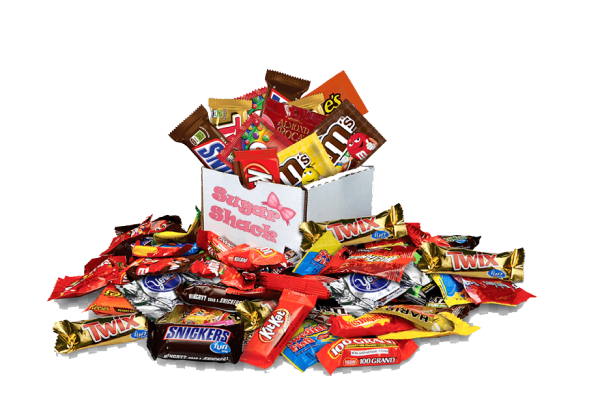
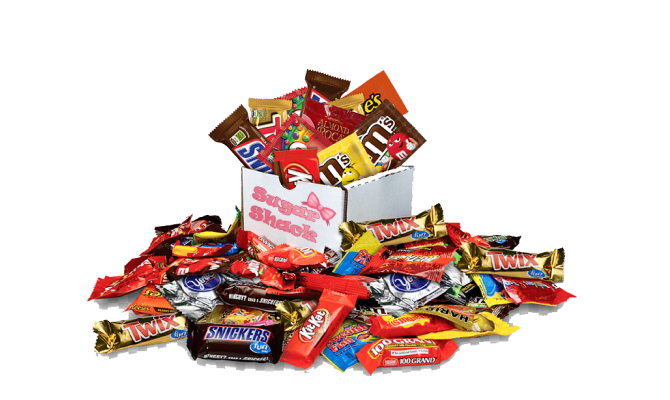
lap

Changed region(s): [[0.06, 0.15, 0.9, 0.96]]

diff --git a/style/phone-style.css b/style/phone-style.css
@@ -121,6 +121,20 @@ body {
     color: white;
 }
 
+@media (min-width: 641px) and (max-width: 1025px) {
+    .menu-left-button {
+        font-size: 2.5vw;
+    }
+    
+    .menu-right-button {
+        font-size: 2.5vw;
+    }
+    
+    .menu-button {
+        font-size: 2.5vw;
+    }
+}
+
 .menu-button:hover {
     background-color: #FFE8EC;
     color: black;
@@ -182,6 +196,12 @@ body {
     line-height: 1.4;
 }
 
+@media (min-width: 641px) and (max-width: 1025px) {
+    .footer-left {
+        font-size: 1.9vw;
+    }
+}
+
 .footer-right {
     display: flex;
     align-items: center;
@@ -191,7 +211,6 @@ body {
 
 .candy-spot {
     width: 100%;
-    height: 22%;
     display: flex;
     align-items: center;
     justify-content: center;
@@ -317,6 +336,12 @@ body {
     line-height: 1.1;
 }
 
+@media (min-width: 641px) and (max-width: 1025px) {
+    .top-menu-button {
+        font-size: 1.5vw;
+    }
+}
+
 .top-menu-button:hover {
     background-color: #EC7088;
 }
@@ -371,7 +396,6 @@ body {
 
 .maps-spot {
     width: 100%;
-    height: 20%;
     display: flex;
     align-items: center;
     justify-content: center;
@@ -1009,7 +1033,6 @@ body {
 
 .about-block {
     width: 80%;
-    height: 36%;
     display: flex;
     flex-direction: column;
     align-items: center;

diff --git a/about.php b/about.php
@@ -135,28 +135,28 @@
 
     <div class="phone-div">
         <div class="about-block" style="margin-left:10%;margin-top:3%;">
-            <div class="about-image"><img src="img/about1.jpg" style="max-width:100%;max-height:100%;border-radius:1vw;"></div>
+            <div class="about-image"><img src="img/about1.jpg" style="max-width:90%;max-height:90%;border-radius:1vw;"></div>
             <div class="about-name">Наши склады</div>
             <div class="about-text">
                 Наши склады — это сердце и душа нашей фабрики Sugar Shack. Расположенные в стратегически удобных местах, они представляют собой современные и высокоорганизованные пространства, где каждый этап производственного процесса тщательно контролируется и оптимизируется для обеспечения качества и эффективности.
             </div>
         </div>
         <div class="about-block" style="margin-left:10%;margin-top:6%;">
-            <div class="about-image"><img src="img/about2.jpg" style="max-width:100%;max-height:100%;border-radius:1vw;"></div>
+            <div class="about-image"><img src="img/about2.jpg" style="max-width:90%;max-height:90%;border-radius:1vw;"></div>
             <div class="about-name">Шоколад</div>
             <div class="about-text">
                 Наша коллекция шоколада, поставляемого от самых реномированных производителей со всего мира, — это настоящее искусство вкуса и качества. Мы гордимся тем, что предлагаем нашим клиентам только самые изысканные и утонченные варианты шоколадных изделий, которые поражают своим великолепием и непревзойденным вкусом.
             </div>
         </div>
         <div class="about-block" style="margin-left:10%;margin-top:6%;">
-            <div class="about-image"><img src="img/about3.jpg" style="max-width:100%;max-height:100%;border-radius:1vw;"></div>
+            <div class="about-image"><img src="img/about3.jpg" style="max-width:90%;max-height:90%;border-radius:1vw;"></div>
             <div class="about-name">Контроль качества</div>
             <div class="about-text">
                 Наши процессы контроля качества начинаются с тщательного отбора сырьевых материалов. Мы работаем только с надежными и сертифицированными поставщиками, чтобы гарантировать свежесть, чистоту и натуральность всех ингредиентов, используемых в нашей продукции.
             </div>
         </div>
-        <div class="about-block" style="margin-left:10%;margin-top:3%;">
-            <div class="about-image"><img src="img/about4.jpg" style="max-width:100%;max-height:100%;border-radius:1vw;"></div>
+        <div class="about-block" style="margin-left:10%;margin-top:6%;">
+            <div class="about-image"><img src="img/about4.jpg" style="max-width:90%;max-height:90%;border-radius:1vw;"></div>
             <div class="about-name">Напитки</div>
             <div class="about-text">
                 В Sugar Shack мы предлагаем широкий ассортимент напитков от различных производителей, чтобы удовлетворить самые изысканные вкусовые предпочтения наших клиентов. Наша коллекция напитков — это уникальное сочетание аутентичных вкусов, высокого качества и мастерства приготовления, представленное лучшими производителями со всего мира.

diff --git a/index.php b/index.php
@@ -175,7 +175,7 @@
 
     <div class="candy-spot" style="margin-top:1%;">
         <div class="candy-left">
-            <img class="phone-img" src="img/candy1.png" style="max-height: 80%; max-width: auto;margin-top:10%;">
+            <img class="phone-img" src="img/candy1.png" style="max-height: 80%; max-width: 95%;margin-top:10%;">
             <img class="computer-img" src="img/candy1.png" style="max-height: 100%; max-width: auto;">
         </div>
         <div class="candy-right" style="width: 40%; height: 65%;display:block;margin-left:1%;">
@@ -189,13 +189,13 @@
             Вдохновляйтесь нашим разнообразием и выбирайте то, что подходит вашему настроению и вкусу. От нежных шоколадных конфет до хрустящих карамелек, мы предлагаем бесконечные варианты сладких удовольствий. Дарите радость себе и своим близким с нашими вкусными подарками!
         </div>
         <div class="candy-right">
-            <img class="phone-img" src="img/candy2.png" style="max-height: 75%; max-width: auto;margin-top:10%;">
+            <img class="phone-img" src="img/candy2.png" style="max-height: 75%; max-width: 95%;margin-top:10%;">
             <img class="computer-img" src="img/candy2.png" style="max-height: 100%; max-width: auto;">
         </div>
     </div>
     <div class="candy-spot">
         <div class="candy-left">
-            <img class="phone-img" src="img/candy3.png" style="max-height: 80%; max-width: auto;margin-top:10%;">
+            <img class="phone-img" src="img/candy3.png" style="max-height: 80%; max-width: 95%;margin-top:10%;">
             <img class="computer-img" src="img/candy3.png" style="max-height: 100%; max-width: auto;">
         </div>
         <div class="candy-right" style="width: 40%; height: 65%;display:block;margin-left:1%;">
